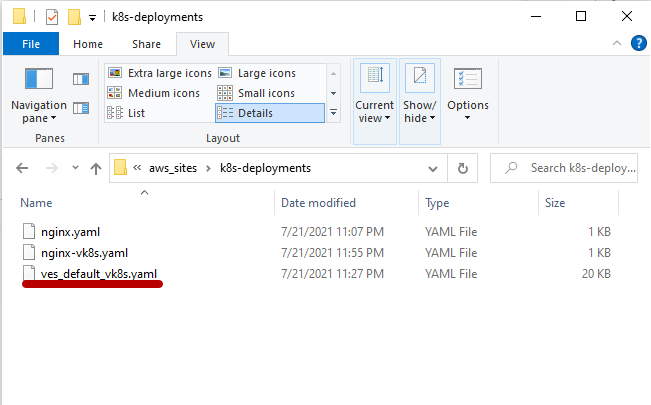
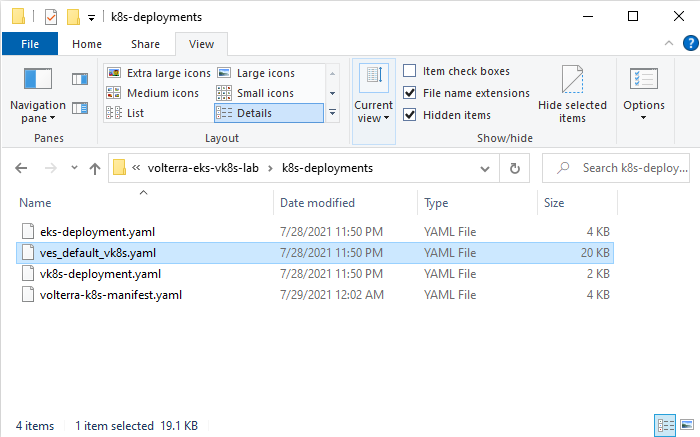
update script

diff --git a/README.rst b/README.rst
@@ -92,14 +92,14 @@ In order to connect EKS cluster, we'll follow a few steps. First, we'll need to 
 2. Update manifest
 *******************
 
-Download the sample  `Manifest Template <https://gitlab.com/volterra.io/volterra-ce/-/blob/master/k8s/ce_k8s.yml>`_  and open it. Paste the token generated in the previous step and save the file. The edited manifest will later be applied to spawn a Volterra Site as a pod on the EKS cluster.
+Open the kubernetes deployment file located at **./k8s-deployments/volterra-k8s-manifest.yaml**. Paste the token generated in the previous step and save the file. The edited manifest will later be applied to spawn a Volterra Mesh on the EKS cluster. The original manifest template file can be found here:  `Manifest Template <https://gitlab.com/volterra.io/volterra-ce/-/blob/master/k8s/ce_k8s.yml>`_ 
 
 .. figure:: _figures/connect_eks_cluster_5.png
 
 3. Deploy manifest
 *******************
 
-Open the console and run the following command: **kubectl apply –f volterra-k8s-manifest.yaml**. This deploys the site using the created manifest file.
+Go to the **./k8s-deployments** directory, open the console and run the following command: **kubectl apply –f volterra-k8s-manifest.yaml**. This deploys the site using the created manifest file.
 
 .. figure:: _figures/connect_eks_cluster_6.png
 
